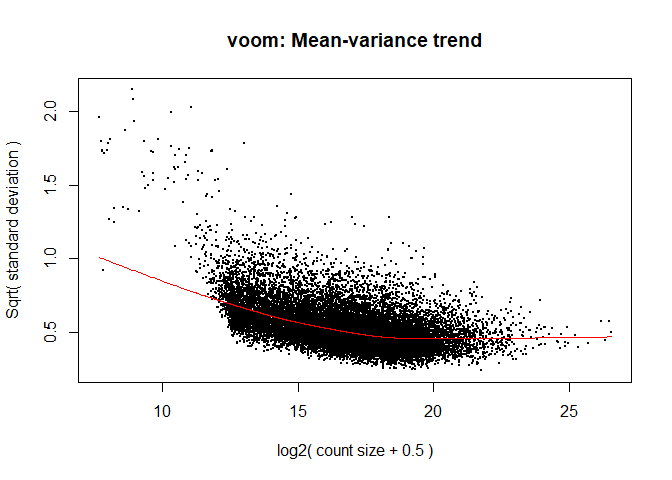
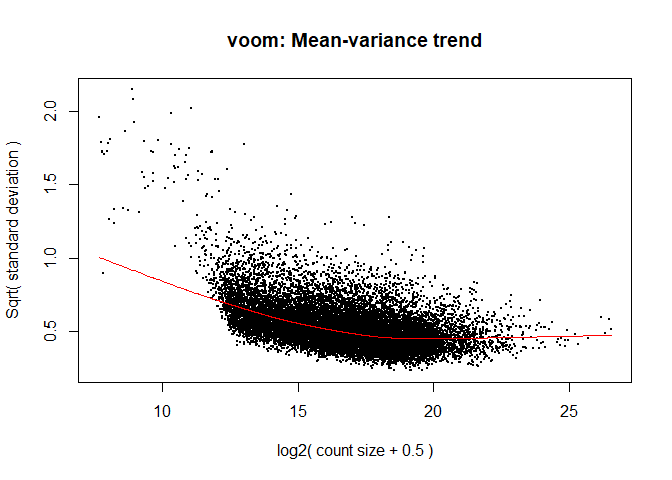
fixed voom() input

diff --git a/analysis_assignment.md b/analysis_assignment.md
@@ -71,7 +71,7 @@ here.
 download_study(project = "SRP043008")
 ```
 
-    ## 2023-02-21 16:22:36 downloading file rse_gene.Rdata to SRP043008
+    ## 2023-02-23 13:55:45 downloading file rse_gene.Rdata to SRP043008
 
 ``` r
 load(file.path("SRP043008", "rse_gene.Rdata"))
@@ -294,7 +294,7 @@ A. The expression values are raw counts. Calculate TMM normalization
 factors (and add them to your `DGEList` object). (1 pt)
 
 ``` r
-dge<-  calcNormFactors(dge)
+dge<-  calcNormFactors(dge, method="TMM")
 ```
 
 B. Examine the distribution of gene expression on the scale of
@@ -458,7 +458,7 @@ head(modm) %>% kable()
 
 ``` r
 #estimate voom weights and plot Median-Variance trend
-vw <- voom(dge$counts, 
+vw <- voom(dge, 
            design = modm, plot = TRUE, span = 0.5)
 ```
 
@@ -478,24 +478,24 @@ lvfitEb
     ## An object of class "MArrayLM"
     ## $coefficients
     ##                    (Intercept)          hpi   InfectedY hpi:InfectedY
-    ## ENSG00000000003.14    3.986061  0.008994954  0.01441368 -0.0026460863
-    ## ENSG00000000419.12    4.993796 -0.006361967  0.13541544 -0.0007212984
-    ## ENSG00000000457.13    3.651646  0.004161519  0.03496702 -0.0018142264
-    ## ENSG00000000460.16    3.981949 -0.022144655  0.11100895  0.0037317870
-    ## ENSG00000000971.15    4.030741  0.033436652 -0.15590418  0.0165051686
+    ## ENSG00000000003.14    3.938421  0.009970700  0.07104774  -0.003772279
+    ## ENSG00000000419.12    4.946847 -0.005347600  0.19121834  -0.001885539
+    ## ENSG00000000457.13    3.604565  0.005142183  0.09104361  -0.002972930
+    ## ENSG00000000460.16    3.937463 -0.021210376  0.17129516   0.002424709
+    ## ENSG00000000971.15    3.980039  0.034421935 -0.10188059   0.015394162
     ## 16676 more rows ...
     ## 
     ## $stdev.unscaled
     ##                    (Intercept)         hpi InfectedY hpi:InfectedY
-    ## ENSG00000000003.14   0.1488954 0.003241335 0.1722719   0.004010659
-    ## ENSG00000000419.12   0.1356595 0.003079579 0.1574488   0.003810808
-    ## ENSG00000000457.13   0.1566672 0.003453902 0.1809216   0.004270221
-    ## ENSG00000000460.16   0.1574838 0.003777046 0.1808903   0.004651308
-    ## ENSG00000000971.15   0.1430559 0.003024213 0.1654742   0.003659308
+    ## ENSG00000000003.14   0.1438327 0.003135718 0.1665771   0.003883388
+    ## ENSG00000000419.12   0.1315725 0.002985533 0.1529011   0.003697685
+    ## ENSG00000000457.13   0.1511647 0.003335274 0.1747212   0.004128578
+    ## ENSG00000000460.16   0.1520228 0.003649921 0.1748168   0.004501472
+    ## ENSG00000000971.15   0.1384749 0.002940024 0.1603235   0.003562087
     ## 16676 more rows ...
     ## 
     ## $sigma
-    ## [1] 0.6329772 1.0992769 0.5201693 0.9580515 1.8784465
+    ## [1] 0.6477403 1.0785273 0.5858558 0.9263784 2.0544462
     ## 16676 more elements ...
     ## 
     ## $df.residual
@@ -517,9 +517,9 @@ lvfitEb
     ## 
     ## $Amean
     ## ENSG00000000003.14 ENSG00000000419.12 ENSG00000000457.13 ENSG00000000460.16 
-    ##           4.232993           4.874533           3.775838           3.427212 
+    ##           4.229751           4.871291           3.772596           3.423970 
     ## ENSG00000000971.15 
-    ##           5.326156 
+    ##           5.322914 
     ## 16676 more elements ...
     ## 
     ## $method
@@ -535,58 +535,58 @@ lvfitEb
     ## 22 more rows ...
     ## 
     ## $df.prior
-    ## [1] 3.845324
+    ## [1] 3.771644
     ## 
     ## $s2.prior
-    ## [1] 0.8175061
+    ## [1] 0.8134078
     ## 
     ## $var.prior
-    ## [1] 19.57172048  0.01223233  1.40750072  0.01223233
+    ## [1] 19.67033077  0.01229396  1.44514355  0.01229396
     ## 
     ## $proportion
     ## [1] 0.01
     ## 
     ## $s2.post
-    ## [1] 0.4603692 1.1524166 0.3489183 0.9034876 3.1402297
+    ## [1] 0.4750525 1.1139387 0.4094670 0.8518698 3.7407158
     ## 16676 more elements ...
     ## 
     ## $t
     ##                    (Intercept)       hpi  InfectedY hpi:InfectedY
-    ## ENSG00000000003.14    39.45569  4.089987  0.1233126    -0.9723779
-    ## ENSG00000000419.12    34.29065 -1.924400  0.8011691    -0.1763166
-    ## ENSG00000000457.13    39.45925  2.039764  0.3271948    -0.7192490
-    ## ENSG00000000460.16    26.60104 -6.168158  0.6456268     0.8440742
-    ## ENSG00000000971.15    15.90005  6.239212 -0.5316755     2.5453080
+    ## ENSG00000000003.14    39.72773  4.613365  0.6188198    -1.4093608
+    ## ENSG00000000419.12    35.62319 -1.697096  1.1849181    -0.4831423
+    ## ENSG00000000457.13    37.26432  2.409387  0.8143186    -1.1253167
+    ## ENSG00000000460.16    28.06217 -6.296197  1.0616354     0.5836043
+    ## ENSG00000000971.15    14.86069  6.053506 -0.3285617     2.2344680
     ## 16676 more rows ...
     ## 
     ## $df.total
-    ## [1] 26.84532 26.84532 26.84532 26.84532 26.84532
+    ## [1] 26.77164 26.77164 26.77164 26.77164 26.77164
     ## 16676 more elements ...
     ## 
     ## $p.value
     ##                     (Intercept)          hpi InfectedY hpi:InfectedY
-    ## ENSG00000000003.14 2.620530e-25 3.517564e-04 0.9027782    0.33954321
-    ## ENSG00000000419.12 1.055265e-23 6.496473e-02 0.4300681    0.86136861
-    ## ENSG00000000457.13 2.614285e-25 5.132646e-02 0.7460583    0.47820242
-    ## ENSG00000000460.16 7.966561e-21 1.393664e-06 0.5240017    0.40608715
-    ## ENSG00000000971.15 3.489667e-15 1.157894e-06 0.5993233    0.01698039
+    ## ENSG00000000003.14 2.454136e-25 8.764249e-05 0.5412653    0.17023944
+    ## ENSG00000000419.12 4.315816e-24 1.012764e-01 0.2464622    0.63292249
+    ## ENSG00000000457.13 1.322501e-24 2.313253e-02 0.4226471    0.27044270
+    ## ENSG00000000460.16 2.180040e-21 1.010628e-06 0.2978849    0.56437153
+    ## ENSG00000000971.15 1.884054e-14 1.902554e-06 0.7450432    0.03400142
     ## 16676 more rows ...
     ## 
     ## $lods
-    ##                    (Intercept)       hpi InfectedY hpi:InfectedY
-    ## ENSG00000000003.14    47.89570 -1.389439 -6.527421     -7.431452
-    ## ENSG00000000419.12    44.29548 -6.378917 -6.300200     -7.947696
-    ## ENSG00000000457.13    47.85741 -6.058037 -6.433064     -7.584775
-    ## ENSG00000000460.16    37.68261  4.292843 -6.277774     -7.400744
-    ## ENSG00000000971.15    24.46388  4.266526 -6.431561     -4.998132
+    ##                    (Intercept)         hpi InfectedY hpi:InfectedY
+    ## ENSG00000000003.14    47.98388 -0.04672854 -6.387558     -6.954900
+    ## ENSG00000000419.12    45.19009 -6.79238032 -5.967017     -7.875987
+    ## ENSG00000000457.13    46.31032 -5.37698303 -6.201602     -7.245462
+    ## ENSG00000000460.16    38.97892  4.58448541 -5.973192     -7.624717
+    ## ENSG00000000971.15    22.71593  3.73605117 -6.563699     -5.661835
     ## 16676 more rows ...
     ## 
     ## $F
-    ## [1] 4223.192 2680.360 3983.880 1306.902 1143.120
+    ## [1] 4386.060 2947.932 3646.273 1488.340 1020.061
     ## 16676 more elements ...
     ## 
     ## $F.p.value
-    ## [1] 3.813902e-37 1.682491e-34 8.333601e-37 2.493519e-30 1.488658e-29
+    ## [1] 2.804324e-37 5.662752e-35 3.309709e-36 5.156424e-31 7.868197e-29
     ## 16676 more elements ...
 
 C. Print the 10 top-ranked genes by adjusted p-value for the
@@ -594,22 +594,22 @@ C. Print the 10 top-ranked genes by adjusted p-value for the
 
 ``` r
 #use signif to round off floats
-signif(topTable(lvfitEb, coef= "hpi:InfectedY", sort.by= "p", number = 10),3) %>% 
+signif(topTable(lvfitEb, coef= "hpi:InfectedY", sort.by= "p", number = 10),3) %>%
   kable()
 ```
 
 |                    |  logFC | AveExpr |    t | P.Value | adj.P.Val |    B |
 |:-------------------|-------:|--------:|-----:|--------:|----------:|-----:|
-| ENSG00000103966.10 | 0.0337 |   6.400 | 7.15 | 1.0e-07 |  0.000967 | 6.75 |
-| ENSG00000204520.12 | 0.0128 |   5.330 | 7.05 | 1.0e-07 |  0.000967 | 6.54 |
-| ENSG00000137285.9  | 0.0523 |   6.030 | 6.98 | 2.0e-07 |  0.000967 | 6.35 |
-| ENSG00000137267.5  | 0.0432 |   6.600 | 6.74 | 3.0e-07 |  0.001140 | 5.71 |
-| ENSG00000281028.1  | 0.0334 |   4.600 | 6.71 | 3.0e-07 |  0.001140 | 5.77 |
-| ENSG00000147509.13 | 0.0469 |   0.807 | 6.52 | 6.0e-07 |  0.001340 | 5.80 |
-| ENSG00000272921.1  | 0.0192 |   4.750 | 6.52 | 6.0e-07 |  0.001340 | 5.23 |
-| ENSG00000038210.12 | 0.0319 |   5.600 | 6.27 | 1.1e-06 |  0.002040 | 4.51 |
-| ENSG00000002549.12 | 0.0545 |   6.620 | 6.22 | 1.2e-06 |  0.002040 | 4.36 |
-| ENSG00000139531.12 | 0.0191 |   4.090 | 6.22 | 1.2e-06 |  0.002040 | 4.50 |
+| ENSG00000137285.9  | 0.0512 |   6.030 | 7.30 | 1.0e-07 |   0.00131 | 7.14 |
+| ENSG00000137267.5  | 0.0421 |   6.590 | 6.90 | 2.0e-07 |   0.00178 | 6.09 |
+| ENSG00000139531.12 | 0.0180 |   4.090 | 6.70 | 4.0e-07 |   0.00199 | 5.71 |
+| ENSG00000103966.10 | 0.0326 |   6.400 | 6.48 | 6.0e-07 |   0.00264 | 4.99 |
+| ENSG00000281028.1  | 0.0322 |   4.600 | 6.22 | 1.2e-06 |   0.00409 | 4.45 |
+| ENSG00000106785.14 | 0.0471 |   6.450 | 5.92 | 2.7e-06 |   0.00546 | 3.53 |
+| ENSG00000002549.12 | 0.0534 |   6.610 | 5.92 | 2.7e-06 |   0.00546 | 3.52 |
+| ENSG00000147509.13 | 0.0459 |   0.803 | 5.92 | 2.7e-06 |   0.00546 | 4.19 |
+| ENSG00000272921.1  | 0.0180 |   4.750 | 5.84 | 3.3e-06 |   0.00546 | 3.42 |
+| ENSG00000038210.12 | 0.0308 |   5.590 | 5.81 | 3.6e-06 |   0.00546 | 3.26 |
 
 ### Question 8: Interpret model (2 POINTS)
 
@@ -629,7 +629,7 @@ topTable(lvfitEb,number = Inf) %>%
 
 | gene               |        hpi | InfectedY | hpi.InfectedY |  AveExpr |        F | P.Value | adj.P.Val |
 |:-------------------|-----------:|----------:|--------------:|---------:|---------:|--------:|----------:|
-| ENSG00000117399.13 | -0.0696882 | 0.0247503 |     0.0177337 | 5.627441 | 55.03318 |       0 |         0 |
+| ENSG00000117399.13 | -0.0686189 | 0.0851386 |     0.0162618 | 5.624199 | 60.16853 |       0 |         0 |
 
 - The coefficient of the hpi term is negative: \$-0.0696882. For
   non-infected samples, with one unit of hpi increase (in hour), the
@@ -654,7 +654,7 @@ topTable(lvfitEb, number = Inf, coef = c("hpi:InfectedY", "InfectedY"), adjust.m
   nrow()
 ```
 
-    ## [1] 1809
+    ## [1] 2006
 
 ### Question 10: Interpret the interaction term (3 POINTS)
 
@@ -662,14 +662,13 @@ Explain what you are modeling with the interaction term. For a
 particular gene, what does a significant interaction term mean?
 
 - With the interaction term hpi:infectedY, I am modeling the conditional
-  effect of infection status conditioned on the effect of hpi. This
-  means that the slope of hpi is dependent on the sample’s infection
-  status.
+  effect of infection status conditioned on the effect of hpi.
+  hpi:InfectedY is the difference in slopes between infected and
+  noninfected individuals.
 
 - A significant interaction term for a particular gene means that the
   effects of hpi on expression of this particular gene are different
-  between an infected and uninfected sample. Also, the interaction has a
-  significant effect on differential expression of this particular gene.
+  between an infected and uninfected sample.
 
 ### **Bonus Question** (2 POINTS - extra credit)
 
